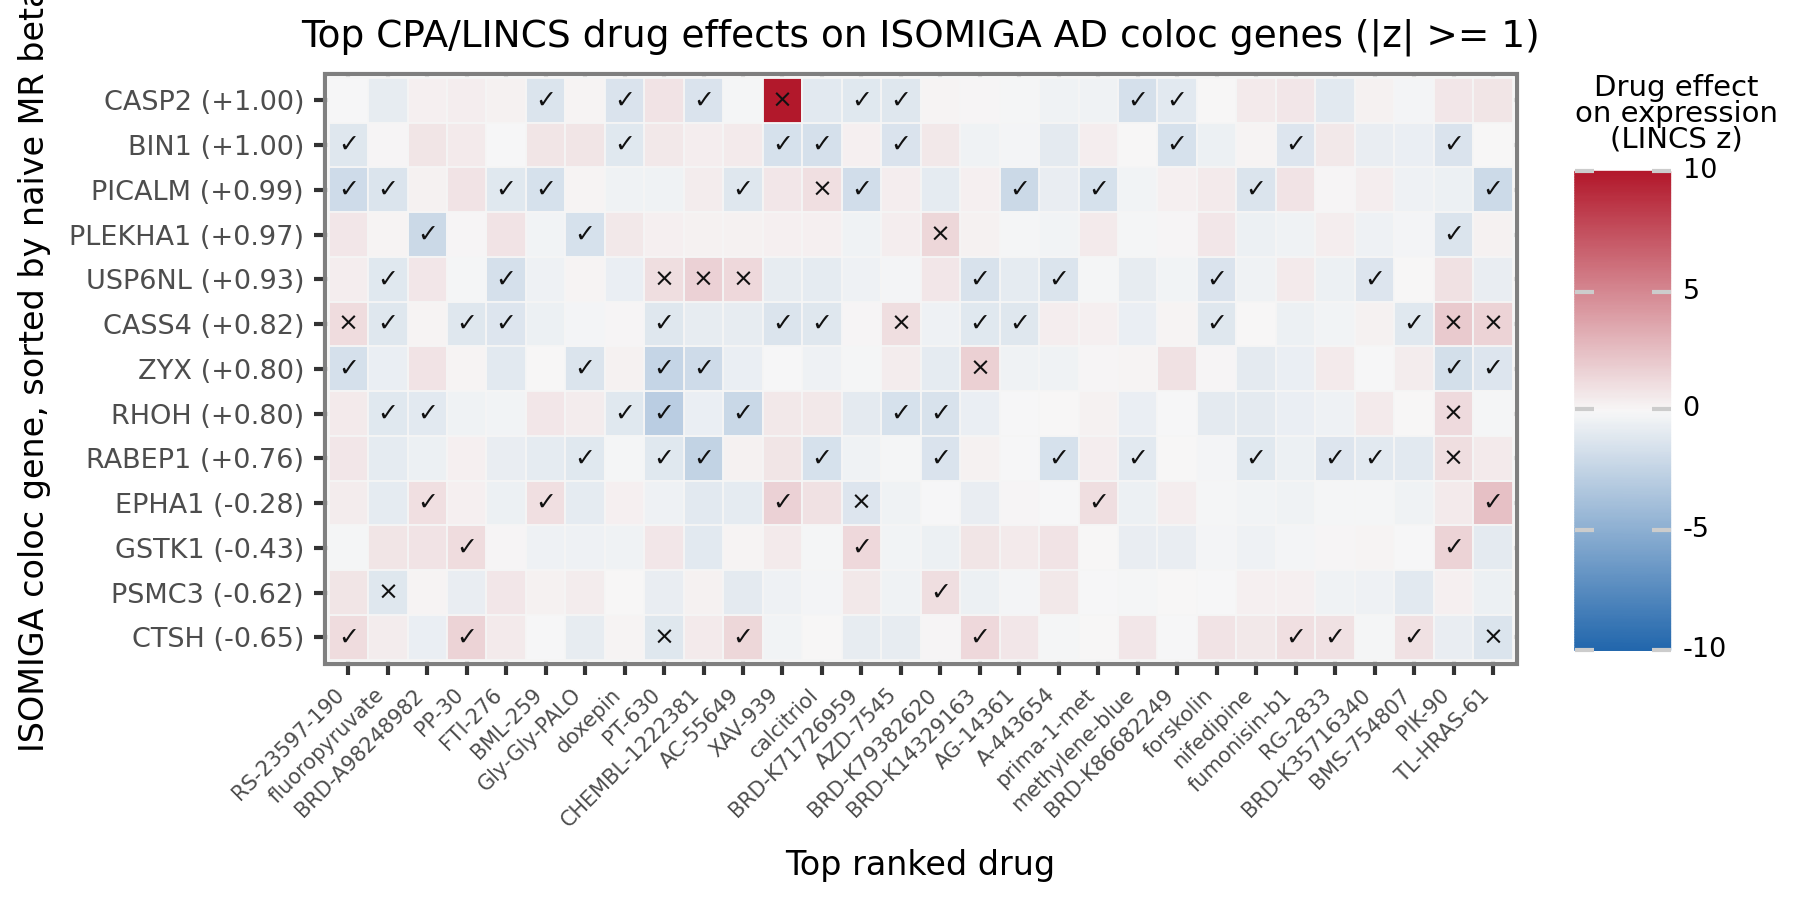
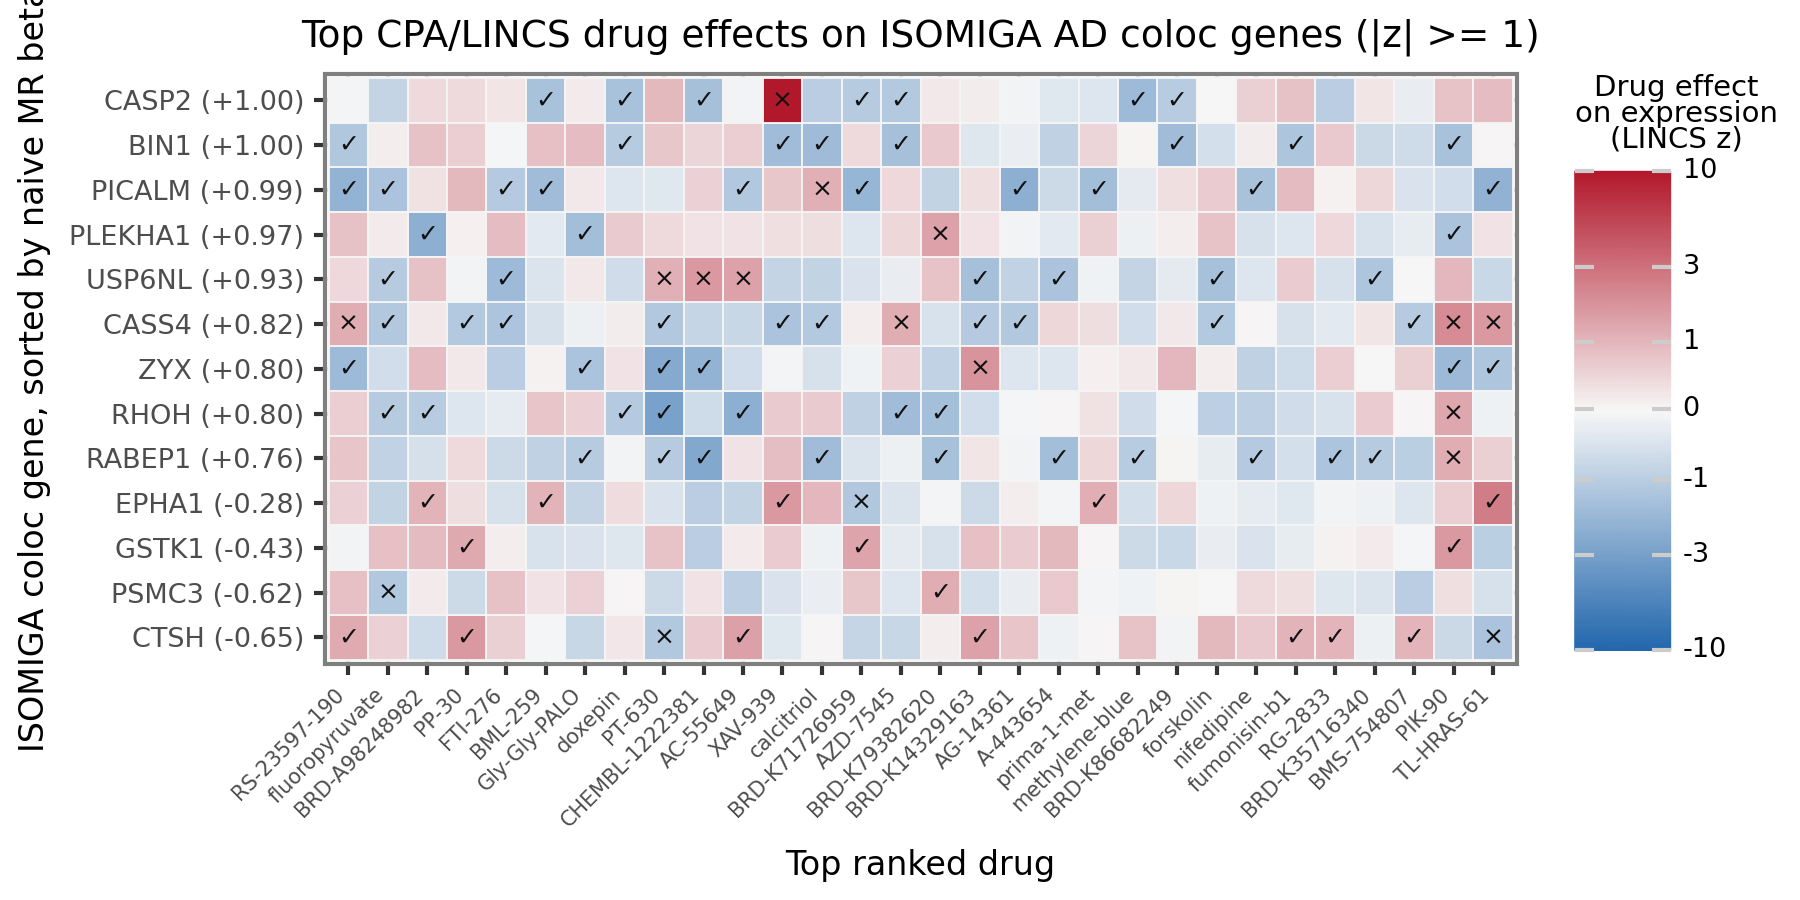
Use asinh scale for LINCS heatmap

Changed region(s): [[0.1556, 0.0622, 0.84, 0.7467], [0.9333, 0.5911, 0.9644, 0.6222]]

diff --git a/scripts/plot_cpa_coloc_gene_drug_heatmap.py b/scripts/plot_cpa_coloc_gene_drug_heatmap.py
@@ -110,11 +110,24 @@ def main() -> None:
 
     max_abs = float(np.nanmax(np.abs(plot_df["mean_z"]))) if not plot_df.empty else 1.0
     max_abs = max(max_abs, 1.0)
+    color_breaks = [-max_abs, -3, -1, 0, 1, 3, max_abs]
+    color_breaks = sorted(set(value for value in color_breaks if -max_abs <= value <= max_abs))
+    plot_df["mean_z_asinh"] = np.arcsinh(plot_df["mean_z"])
+    marker_df["mean_z_asinh"] = np.arcsinh(marker_df["mean_z"])
+    transformed_max = float(np.arcsinh(max_abs))
     plot = (
-        ggplot(plot_df, aes("drug_label", "gene_label", fill="mean_z"))
+        ggplot(plot_df, aes("drug_label", "gene_label", fill="mean_z_asinh"))
         + geom_tile(color="#f5f5f5", size=0.25)
         + geom_text(marker_df, aes(label="marker"), size=6, color="#111111")
-        + scale_fill_gradient2(low="#2166ac", mid="#f7f7f7", high="#b2182b", midpoint=0, limits=(-max_abs, max_abs))
+        + scale_fill_gradient2(
+            low="#2166ac",
+            mid="#f7f7f7",
+            high="#b2182b",
+            midpoint=0,
+            limits=(-transformed_max, transformed_max),
+            breaks=np.arcsinh(color_breaks),
+            labels=[f"{value:g}" for value in color_breaks],
+        )
         + labs(
             x="Top ranked drug",
             y="ISOMIGA coloc gene, sorted by naive MR beta",

diff --git a/README.md b/README.md
@@ -111,6 +111,8 @@ Outputs:
 - `docs/cmap2020_stress_filtered_top30_biology_review.tsv`: biological discussion and evidence level for every filtered top-30 hit.
 - `results/figures/cmap2020_stress_filtered_top30_abs1_coloc_gene_drug_heatmap.pdf`: filtered top-30 coloc-gene heatmap.
 
+Heatmap colors use a symmetric `asinh(LINCS z)` mapping, while the legend remains labeled in the original z-score units. This preserves extreme values without compressing the more common effects around `|z| = 1-3`.
+
 ## CPA THP1 imputation
 
 The CPA extension predicts THP1 drug responses for LINCS compounds that are well represented in other cell lines. It is kept separate from the preliminary observed-only pipeline because CPA has a different Python dependency stack.

diff --git a/LABNOTEBOOK.md b/LABNOTEBOOK.md
@@ -53,6 +53,7 @@ Findings:
 - The filtered top 30 include only three `replicated_consistent` compounds: doxepin, A-443654, and RG-2833. The remaining 27 are explicitly marked as unreplicated and require dose-response confirmation.
 - `docs/cmap2020_stress_filtered_positive_hits.tsv` preserves every positive-net hit and its failure reasons. `docs/cmap2020_stress_filtered_top30_biology_review.tsv` discusses every passing top-30 compound and includes the stress-screen evidence columns.
 - `results/figures/cmap2020_stress_filtered_top30_abs1_coloc_gene_drug_heatmap.pdf` displays the filtered ranking. The screen is intended for triage and does not replace viability, morphology, or primary microglial validation.
+- Heatmap fill uses an `asinh(LINCS z)` color mapping with legend labels in the original z-score units. This prevents the XAV-939/CASP2 value at the LINCS `z = 10` ceiling from compressing the remaining effects.
 
 ## CPA THP1 response imputation
 